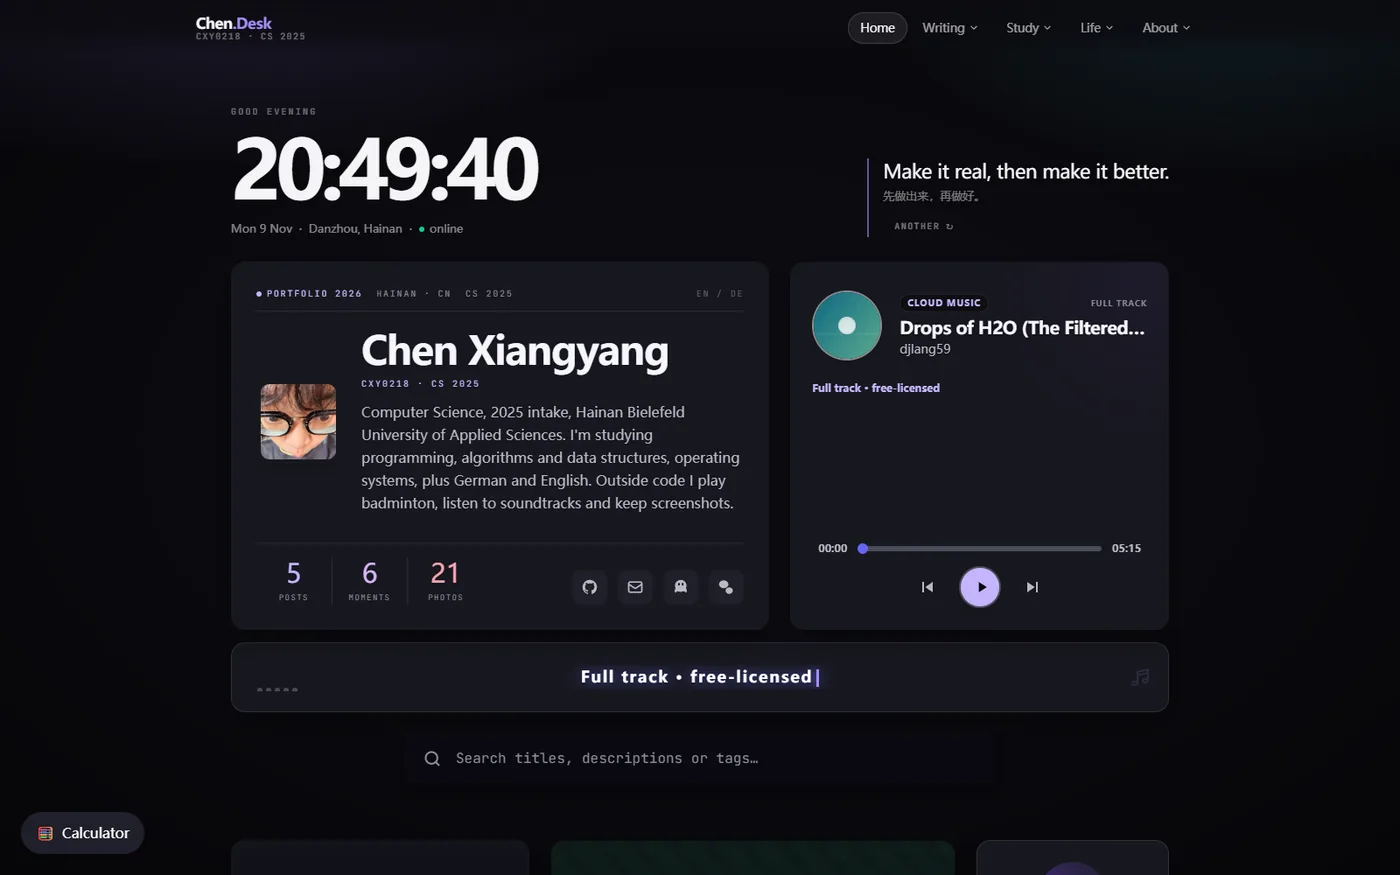
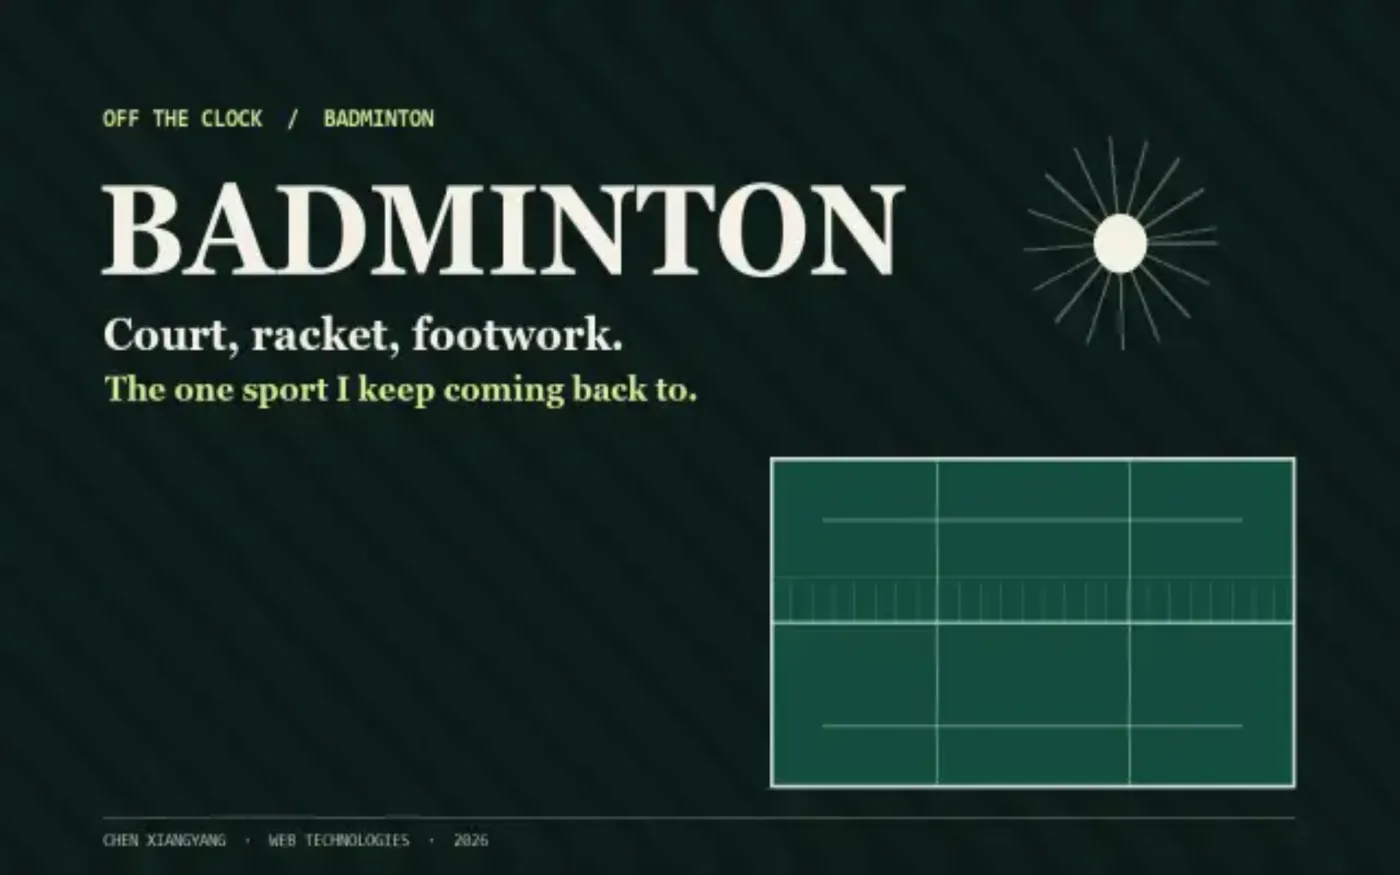
style: ledger badminton cover and final desk polish
- new badminton artwork in the lavender desk style, with a matching
  renamed file so caches cannot serve the old green illustration
- refreshed home and badminton screenshots for the photo wall
- theme-toggle copy no longer mentions removed fireflies/petals
- cache-busted the replaced site screenshots

diff --git a/XHBlogs/data/albums.ts b/XHBlogs/data/albums.ts
@@ -9,15 +9,15 @@ export const albums: Album[] = [
     title: 'Pages of the site',
     description:
       'Six screens from the site I built this year: the home page, the writing index, an article, the check-in heat-map, the badminton page and the short about page.',
-    cover: '/photos/own/home.webp',
+    cover: '/photos/own/home.webp?v=ledger',
     date: '2026.10',
     photos: [
-      { url: '/photos/own/home.webp', caption: 'Home, after the October redesign' },
-      { url: '/photos/own/posts.webp', caption: 'The writing index' },
-      { url: '/photos/own/article.webp', caption: 'An article, with its table of contents' },
-      { url: '/photos/own/checkin.webp', caption: 'The check-in heat-map' },
-      { url: '/photos/own/resources.webp', caption: 'The badminton page' },
-      { url: '/photos/own/about.webp', caption: 'About, kept short' }
+      { url: '/photos/own/home.webp?v=ledger', caption: 'Home, after the October redesign' },
+      { url: '/photos/own/posts.webp?v=ledger', caption: 'The writing index' },
+      { url: '/photos/own/article.webp?v=ledger', caption: 'An article, with its table of contents' },
+      { url: '/photos/own/checkin.webp?v=ledger', caption: 'The check-in heat-map' },
+      { url: '/photos/own/resources.webp?v=ledger', caption: 'The badminton page' },
+      { url: '/photos/own/about.webp?v=ledger', caption: 'About, kept short' }
     ]
   },
   {
@@ -25,16 +25,16 @@ export const albums: Album[] = [
     title: 'The course behind the site',
     description:
       'Screens from the Web Technologies course that taught me all of this: the lesson index, the HTML and JavaScript decks, the live box-model and Flexbox-versus-Grid demos, and the Git lesson.',
-    cover: '/photos/own/course-lessons.webp',
+    cover: '/photos/own/course-lessons.webp?v=ledger',
     date: '2026.10',
     photos: [
-      { url: '/photos/own/course-lessons.webp', caption: 'The course: eight lessons' },
-      { url: '/photos/own/course-fundamentals.webp', caption: 'Lesson 1 — Web fundamentals' },
-      { url: '/photos/own/course-html.webp', caption: 'Lesson 2 — HTML' },
-      { url: '/photos/own/course-boxmodel.webp', caption: 'The live box-model demo' },
-      { url: '/photos/own/course-flexgrid.webp', caption: 'Flexbox vs Grid, side by side' },
-      { url: '/photos/own/course-js.webp', caption: 'Lesson 5 — JavaScript' },
-      { url: '/photos/own/course-git.webp', caption: 'Git & GitHub' }
+      { url: '/photos/own/course-lessons.webp?v=ledger', caption: 'The course: eight lessons' },
+      { url: '/photos/own/course-fundamentals.webp?v=ledger', caption: 'Lesson 1 — Web fundamentals' },
+      { url: '/photos/own/course-html.webp?v=ledger', caption: 'Lesson 2 — HTML' },
+      { url: '/photos/own/course-boxmodel.webp?v=ledger', caption: 'The live box-model demo' },
+      { url: '/photos/own/course-flexgrid.webp?v=ledger', caption: 'Flexbox vs Grid, side by side' },
+      { url: '/photos/own/course-js.webp?v=ledger', caption: 'Lesson 5 — JavaScript' },
+      { url: '/photos/own/course-git.webp?v=ledger', caption: 'Git & GitHub' }
     ]
   },
   {
@@ -42,14 +42,14 @@ export const albums: Album[] = [
     title: 'The first deploy',
     description:
       'The unglamorous part of putting a site online: a repository, a deploy, a domain and an environment key. These are the screens from the week it first worked.',
-    cover: '/photos/own/first-deploy.webp',
+    cover: '/photos/own/first-deploy.webp?v=ledger',
     date: '2026.04',
     photos: [
-      { url: '/photos/own/repo.webp', caption: 'Creating the repository' },
-      { url: '/photos/own/first-deploy.webp', caption: 'The first deploy that worked' },
-      { url: '/photos/own/deploy-dashboard.webp', caption: 'Deployments and domains in one panel' },
-      { url: '/photos/own/dns-records.webp', caption: 'Pointing the domain: DNS records' },
-      { url: '/photos/own/env-vars.webp', caption: 'The environment variables, after two renames' }
+      { url: '/photos/own/repo.webp?v=ledger', caption: 'Creating the repository' },
+      { url: '/photos/own/first-deploy.webp?v=ledger', caption: 'The first deploy that worked' },
+      { url: '/photos/own/deploy-dashboard.webp?v=ledger', caption: 'Deployments and domains in one panel' },
+      { url: '/photos/own/dns-records.webp?v=ledger', caption: 'Pointing the domain: DNS records' },
+      { url: '/photos/own/env-vars.webp?v=ledger', caption: 'The environment variables, after two renames' }
     ]
   },
   {
@@ -57,12 +57,12 @@ export const albums: Album[] = [
     title: 'Broken, then fixed',
     description:
       'Three things that did not work the first time. I kept the screenshots because the errors are part of the process, and because they are easier to explain than a finished page.',
-    cover: '/photos/own/music-error.webp',
+    cover: '/photos/own/music-error.webp?v=ledger',
     date: '2026.10',
     photos: [
-      { url: '/photos/own/deploy-failed.webp', caption: 'The first failed deployment' },
-      { url: '/photos/own/dns-error.webp', caption: 'DNS, not yet' },
-      { url: '/photos/own/music-error.webp', caption: 'The music service changed its rules' }
+      { url: '/photos/own/deploy-failed.webp?v=ledger', caption: 'The first failed deployment' },
+      { url: '/photos/own/dns-error.webp?v=ledger', caption: 'DNS, not yet' },
+      { url: '/photos/own/music-error.webp?v=ledger', caption: 'The music service changed its rules' }
     ]
   }
 ];

diff --git a/XHBlogs/app/page.tsx b/XHBlogs/app/page.tsx
@@ -116,7 +116,7 @@ export default function Home() {
                   <div className="grid grid-cols-1 sm:grid-cols-3 gap-6 w-full flex-1">
                     <div className="sm:col-span-2 flex flex-col min-h-[200px]">
                       <Link href="/badminton" className="relative overflow-hidden flex flex-col justify-end flex-1 min-h-[200px] rounded-3xl border border-white/40 shadow-xl p-6 text-white group">
-                        <SmartImage fill sizes="(max-width: 640px) 100vw, 640px" src="/covers/badminton.webp" alt="" className="object-cover transition-transform duration-700 group-hover:scale-105" />
+                        <SmartImage fill sizes="(max-width: 640px) 100vw, 640px" src="/covers/badminton-desk.webp" alt="" className="object-cover transition-transform duration-700 group-hover:scale-105" />
                         <div className="absolute inset-0 bg-gradient-to-t from-slate-950/85 to-slate-900/15" />
                         <div className="relative"><p className="text-xs tracking-widest mb-2">Life</p><h3 className="text-2xl font-bold">Badminton, off the clock ↗</h3><p className="text-sm mt-2 text-white/85">Court, racket, footwork — the sport I keep coming back to</p></div>
                       </Link>

diff --git a/XHBlogs/app/badminton/page.tsx b/XHBlogs/app/badminton/page.tsx
@@ -90,7 +90,7 @@ export default function BadmintonPage() {
         <main id="main-content" className="mx-auto mt-24 w-[92%] max-w-4xl sm:mt-28 md:w-[90%]">
           <figure className="overflow-hidden rounded-3xl border border-white/15 shadow-2xl">
             <img
-              src="/covers/badminton.webp"
+              src="/covers/badminton-desk.webp"
               alt="A dark green badminton court diagram with a shuttlecock and the words Badminton, the sport I keep coming back to."
               width={1600}
               height={900}

diff --git a/XHBlogs/components/ThemeToggleBlock.tsx b/XHBlogs/components/ThemeToggleBlock.tsx
@@ -40,7 +40,7 @@ export default function ThemeToggleBlock() {
              {isDark ? 'Night mode' : 'Day mode'}
            </h3>
            <p className={`text-sm font-medium mt-1 transition-colors duration-500 ${isDark ? 'text-slate-400' : 'text-slate-600'}`}>
-             {isDark ? 'Deep space, fireflies dancing' : 'A morning of falling cherry petals'}
+             {isDark ? 'Deep space, soft lavender glow' : 'Paper white, quiet light'}
            </p>
        </div>
     </div>

diff --git a/XHBlogs/siteConfig.ts b/XHBlogs/siteConfig.ts
@@ -31,7 +31,7 @@ export const siteConfig = {
   bgImages: [],
 
   // 4. Default post cover (shown when the Markdown has no cover)
-  defaultPostCover: withBasePath("/photos/own/home.webp"),
+  defaultPostCover: withBasePath("/photos/own/home.webp?v=ledger"),
 
   // 5. Photo wall preview on the home page
   photoWallImage: "/photos/329a8f2e4296.webp",
